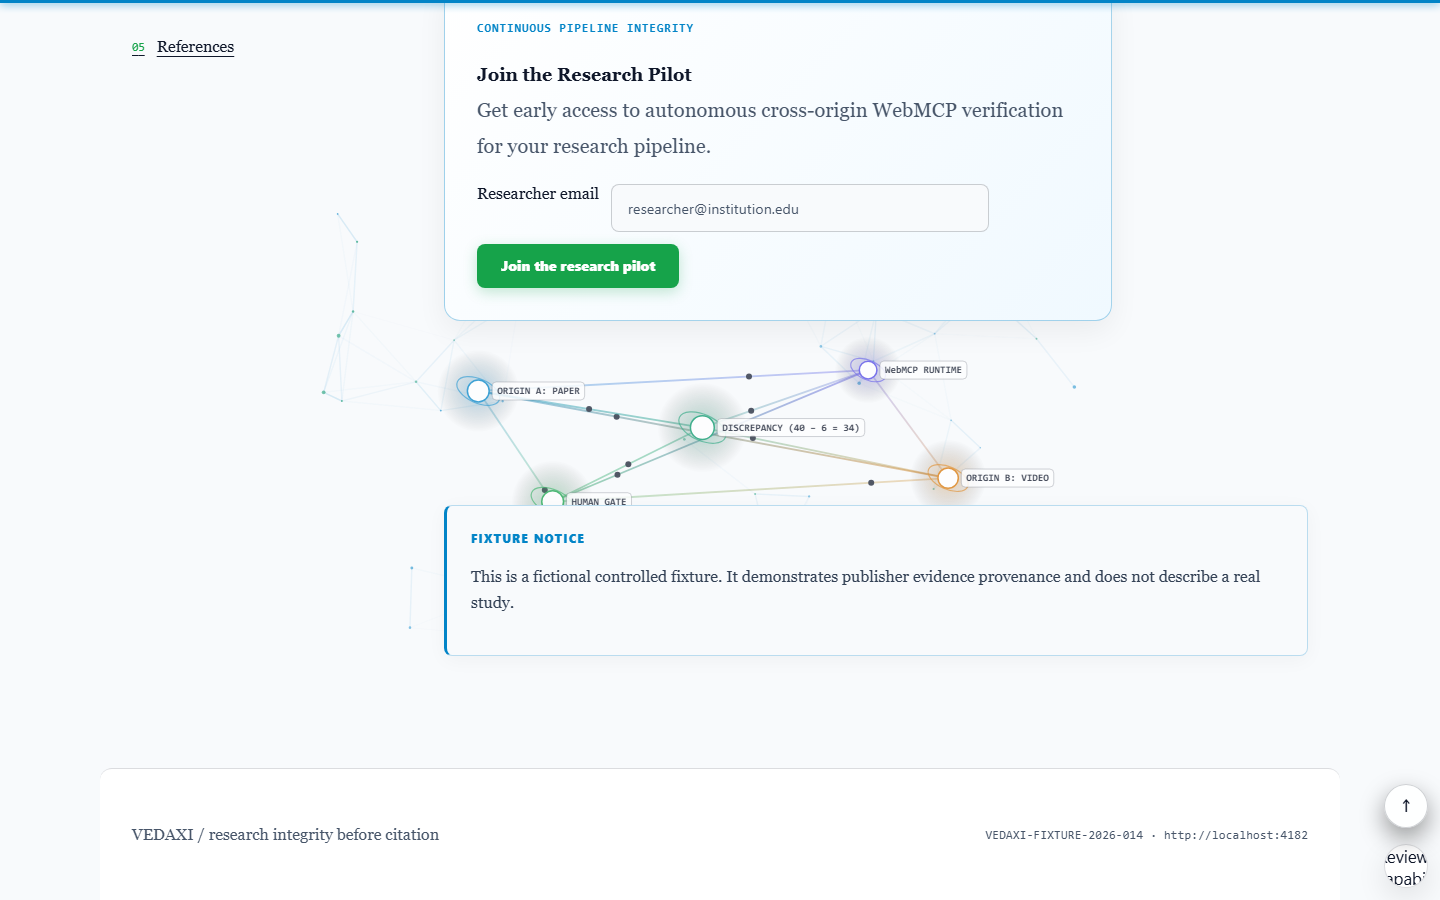
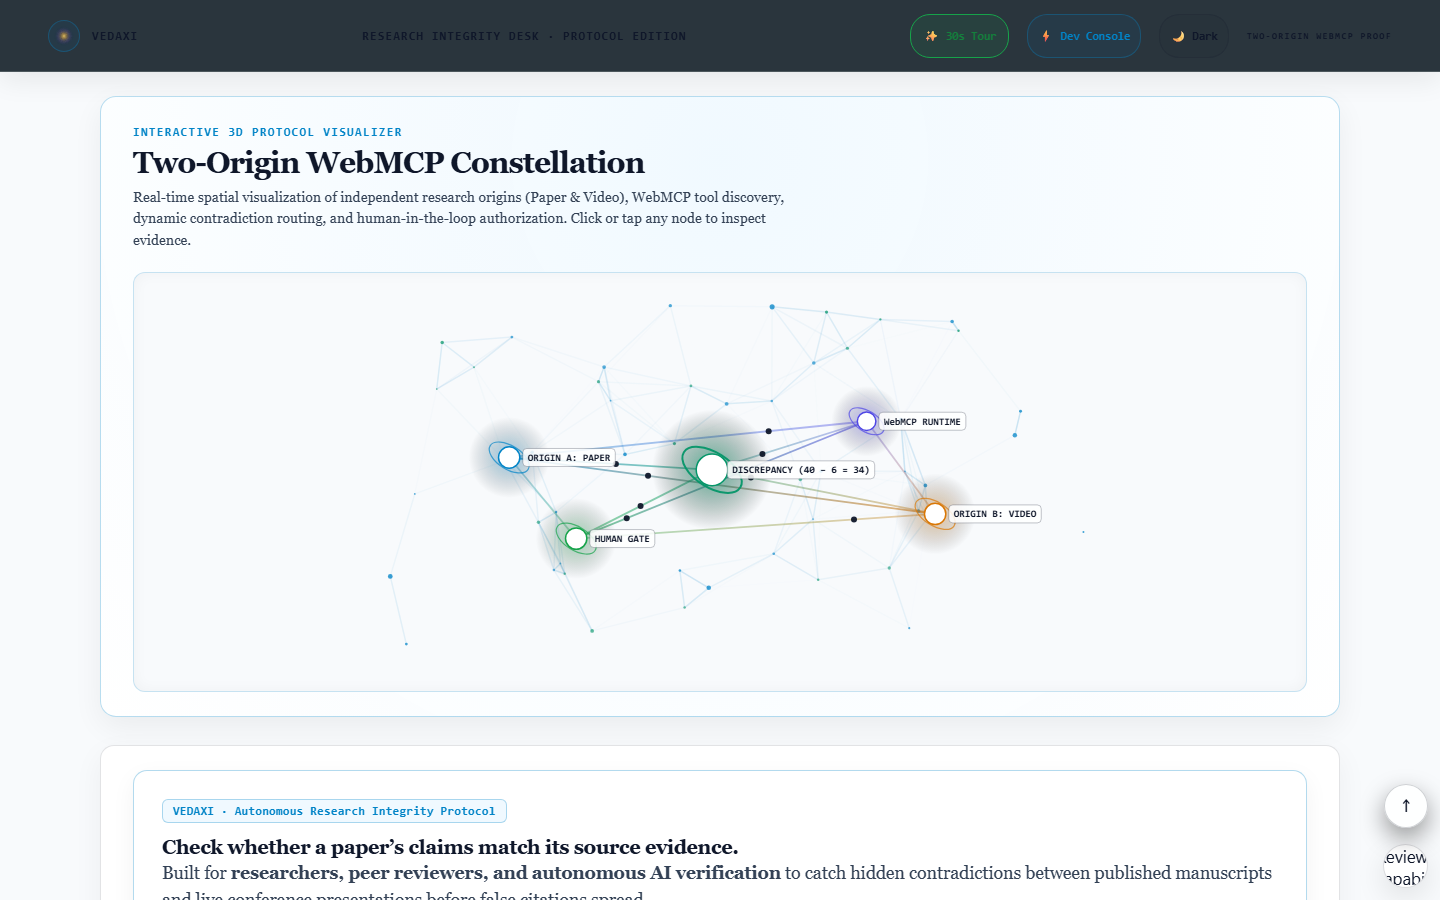
feat(3d-section): add dedicated first section for 3D protocol constellation with zero overlap

diff --git a/apps/paper/src/stage/ProtocolStage3D.tsx b/apps/paper/src/stage/ProtocolStage3D.tsx
@@ -422,12 +422,13 @@ export function ProtocolStage3D({
     return () => {
       cancelAnimationFrame(animationFrameId);
       window.removeEventListener("resize", onResize);
-      window.removeEventListener("scroll", onScroll);
-      window.removeEventListener("mousemove", onMouseMove);
-      window.removeEventListener("touchmove", onTouchMove);
-      window.removeEventListener("touchstart", onTouchMove);
-      window.removeEventListener("click", onClick);
-      window.removeEventListener("touchend", onTouchEnd);
+      if (canvas) {
+        canvas.removeEventListener("mousemove", onMouseMove);
+        canvas.removeEventListener("touchmove", onTouchMove);
+        canvas.removeEventListener("touchstart", onTouchMove);
+        canvas.removeEventListener("click", onClick);
+        canvas.removeEventListener("touchend", onTouchEnd);
+      }
     };
   }, [activeChapter, theme]);
 

diff --git a/apps/paper/src/styles.css b/apps/paper/src/styles.css
@@ -2201,6 +2201,11 @@ footer { display: flex; justify-content: space-between; gap: var(--space-4); pad
   border-color: rgba(2, 132, 199, 0.2);
   box-shadow: inset 0 0 15px rgba(0, 0, 0, 0.04);
 }
+@media (max-width: 768px) {
+  .protocol-3d-stage-container {
+    height: 360px;
+  }
+}
 .protocol-3d-stage {
   position: absolute;
   inset: 0;
